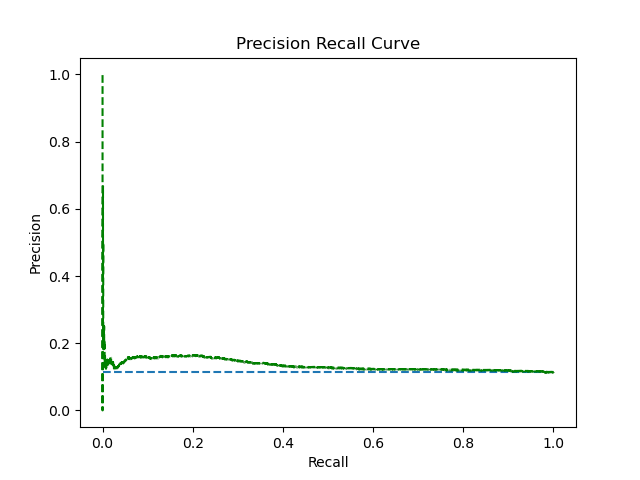
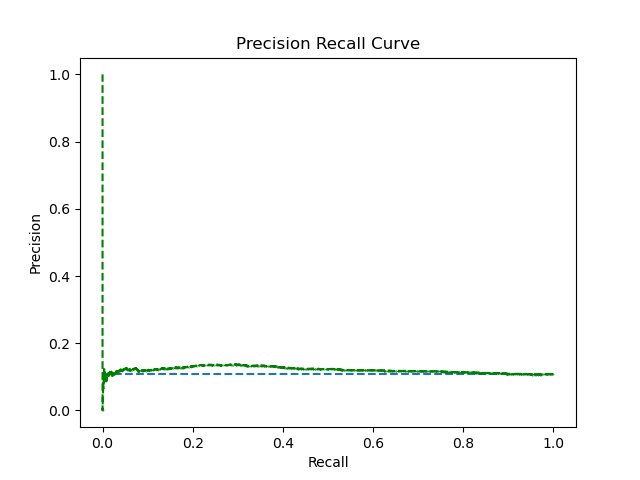
good graphs

Changed region(s): [[0.1562, 0.4062, 0.875, 0.8125]]

diff --git a/Enhanced-ANN-GSGD/main.py b/Enhanced-ANN-GSGD/main.py
@@ -29,7 +29,7 @@ def GSGD_ANN(filePath):
     NC, x, y, N, d, xts, yts = readData(filePath)
     
     #model parameters
-    l_rate =   0.020437449522561126#0.019987676959698759#0.0001#0.0002314354244#9.309681215145698e-15#3.0952770286463463e-07#0.0003314354244#0.00011852732093870824#0.00010926827346753853 #0.0002814354245#0.0002216960781458557#0.0002314354244 #0.000885 #0.061 #0.00025 #0.5
+    l_rate =   0.02001229522561126#0.019987676959698759#0.0001#0.0002314354244#9.309681215145698e-15#3.0952770286463463e-07#0.0003314354244#0.00011852732093870824#0.00010926827346753853 #0.0002814354245#0.0002216960781458557#0.0002314354244 #0.000885 #0.061 #0.00025 #0.5
     n_hidden = 30#36#29#50#36#4
     lamda =  1e-06#0.00014659309759736062#0.5964800918102662#0.06067045242012771#1e-05#0.6980844659683136 #1e-06#0.0001  #Lambda will be used for L2 regularizaion
     betas = (0.9, 0.999)
@@ -40,7 +40,7 @@ def GSGD_ANN(filePath):
     is_guided_approach = True
     rho = 20
     versetnum = 5 #number of batches used for verification
-    epochs = 15#27#15
+    epochs = 12#27#15
     revisitNum = 15
     batch_size = 40#812#122#468#300#891#32
 
